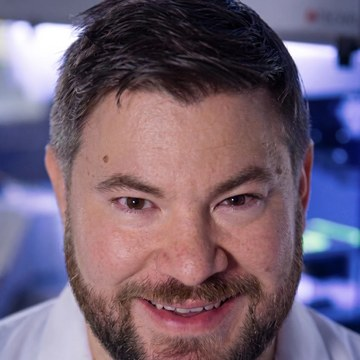
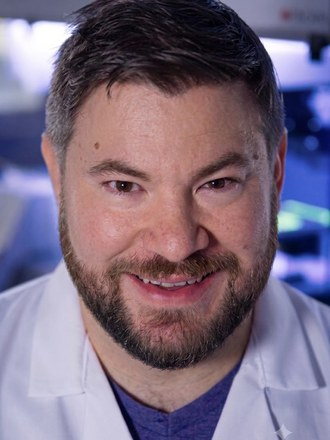
Contacts: show Pongor portrait full-height beside the header
Re-crop the portrait to 3:4 head-and-shoulders and display it as a
rounded rectangle next to the name, lab name and competency line instead
of a tight circular crop.

Claude-Session: https://claude.ai/code/session_01DX23WwMMad8Kk5JPg9PuHK

diff --git a/assets/css/style.css b/assets/css/style.css
@@ -224,7 +224,7 @@ a.course-link:hover { text-decoration: none; }
 .contact-card.featured { border: 1.5px solid var(--accent); box-shadow: 0 22px 55px -26px rgba(13,138,134,.45); }
 .contact-card.featured::after { content: ""; position: absolute; inset: 0; border-radius: inherit; pointer-events: none; box-shadow: inset 0 0 0 1px rgba(13,138,134,.18); }
 .contact-card { position: relative; }
-.person .av.av-photo { background: none; overflow: hidden; }
+.person .av.av-photo { width: 98px; height: 130px; border-radius: 12px; flex: none; background: none; overflow: hidden; }
 .person .av img { width: 100%; height: 100%; object-fit: cover; display: block; }
 @media (max-width: 760px) { .contact-cards { grid-template-columns: 1fr; } }
 .contact-list.cols { display: grid; grid-template-columns: 1fr 1fr; gap: 0 34px; }